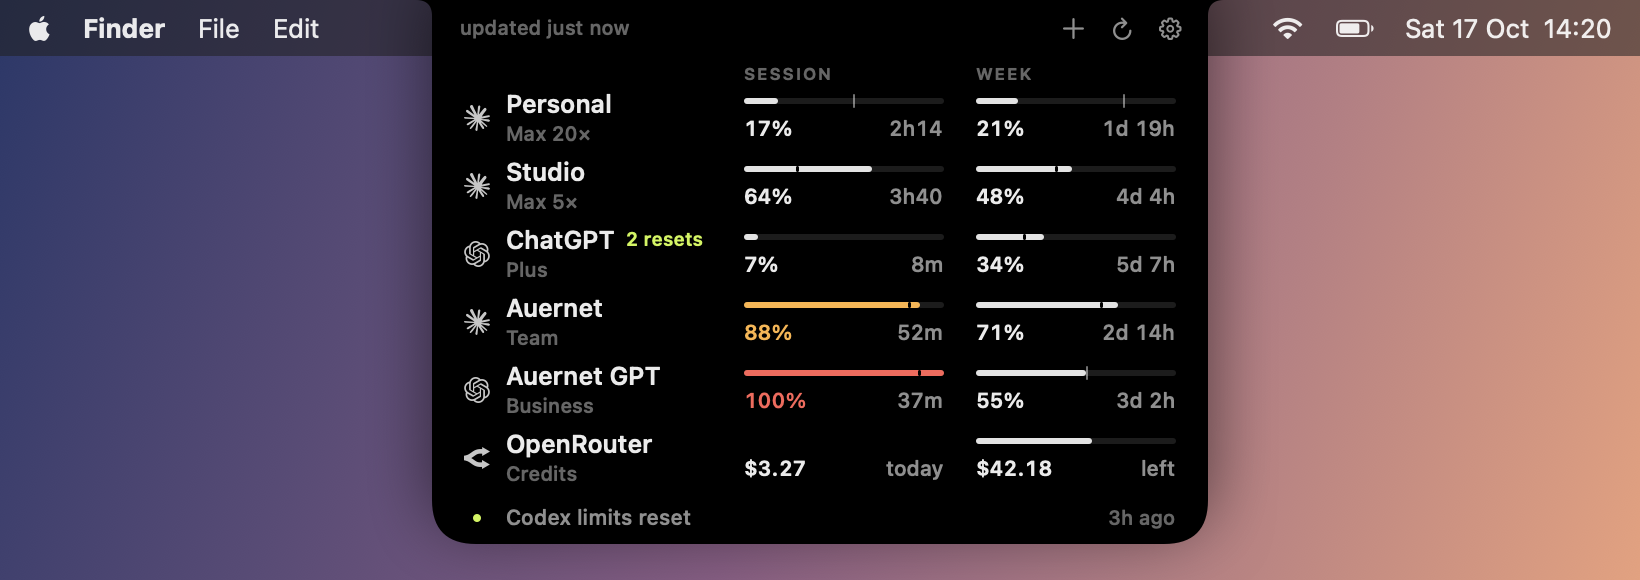
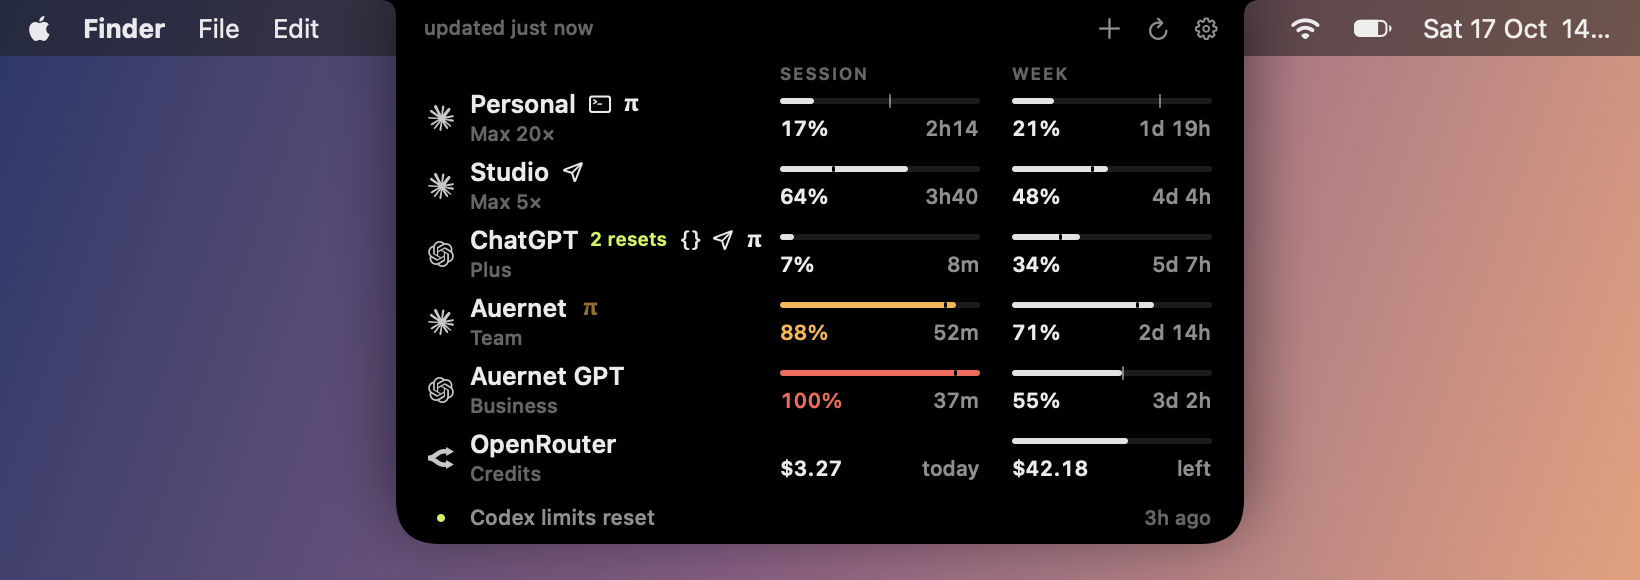
switch: README and renders

diff --git a/README.md b/README.md
@@ -10,7 +10,8 @@ Closed, it's a sliver either side of the camera: one hairline per account on the
 
 Hover the notch and it opens: every account's 5-hour session and weekly limit, how far through each window you are (the tick), and a countdown to each reset. On a screen without a notch it becomes a small pill in the menu bar.
 
-- **Claude** and **ChatGPT / Codex**, as many accounts of each as you like. Your Claude Code and Codex CLI logins are picked up automatically; add others with a browser sign-in.
+- **Claude** and **ChatGPT / Codex**, as many accounts of each as you like. Every account Claude Code, Codex, Hermes Agent or OMP is signed in to on this Mac is picked up automatically; add others with a browser sign-in.
+- **Account switching**: each row shows the tools signed in as that account. Hover a row and the other tools appear dim; click one to sign that tool in as this account. The login it had is parked in Brim and kept fresh, so switching back needs no new sign-in.
 - **OpenRouter**: credit left and today's spend. A key in `$OPENROUTER_API_KEY` (or `~/.config/secrets/global.env`) is picked up by name, never copied; or add one with **Add OpenRouter Key…** / `brim add openrouter`.
 - **Alerts** at thresholds you pick, when a balance runs low, when unused weekly quota is about to expire, when a limit resets, and when OpenAI or Anthropic announce a reset in public ([resets.albastov.com](https://resets.albastov.com)).
 - **Agent-friendly**: `brim status --json`, plus hooks that get every alert as JSON, so an agent can spend leftover quota or pause heavy work.
@@ -31,8 +32,23 @@ brim status [--json] [--fresh]    usage per account
 brim add claude|codex             sign in to another account
 brim add openrouter [--env VAR]   add an OpenRouter key (stdin, or by env var name)
 brim list | rename | remove       manage accounts
+brim where [--json]               what each tool is signed in as, and what Brim has parked
+brim switch <account> <tool>      tool: claude-code, codex, hermes, omp
 brim alerts                       recent alerts, JSON lines
 brim quit
 ```
 
-Everything lives in `~/.brim` (owner-only). Tokens from Claude Code and the Codex CLI are only read, never refreshed, so Brim never fights them over a login.
+Everything lives in `~/.brim` (owner-only).
+
+## Switching
+
+![Hovering an account: the tools it could switch, dim](docs/hover.png)
+
+Claude and ChatGPT refresh tokens rotate: once anyone uses one, every other copy is dead. So a login is never in two places. It is either installed in one tool, which owns and refreshes it while Brim only reads it, or parked in `~/.brim/vault.json`, where Brim refreshes it before it expires. A switch takes the tool's current login out, parks it, and puts the other account's in; the first switch to a tool opens the browser once (usually one click on Authorize). Brim polls usage with its own sign-in, separate from every tool.
+
+- **Claude Code**: the Keychain item `Claude Code-credentials` and `oauthAccount` in `~/.claude.json` (the rest of that file is left byte for byte). Running sessions pick it up on their next request.
+- **Codex**: `~/.codex/auth.json`. Running sessions keep the account they started with; new ones use the new one.
+- **Hermes Agent**: one switch covers every home (`~/.hermes` and each profile). Claude gets a one-year inference token (what `claude setup-token` makes), written to `ANTHROPIC_TOKEN` in each `.env` that sets it; Codex goes in each home's `auth.json`. Gateways pick it up on their next turn.
+- **OMP**: `~/.omp/agent/agent.db`. Brim keeps one live Claude and one live ChatGPT login there, waits out OMP's refresh lease, and leaves dead logins and other providers alone. Running instances pick it up on their next credential lookup.
+
+Every write is atomic and preceded by a backup in `~/.brim/backups` (the last 20 per store). If a step fails, the tool keeps the login it had.
